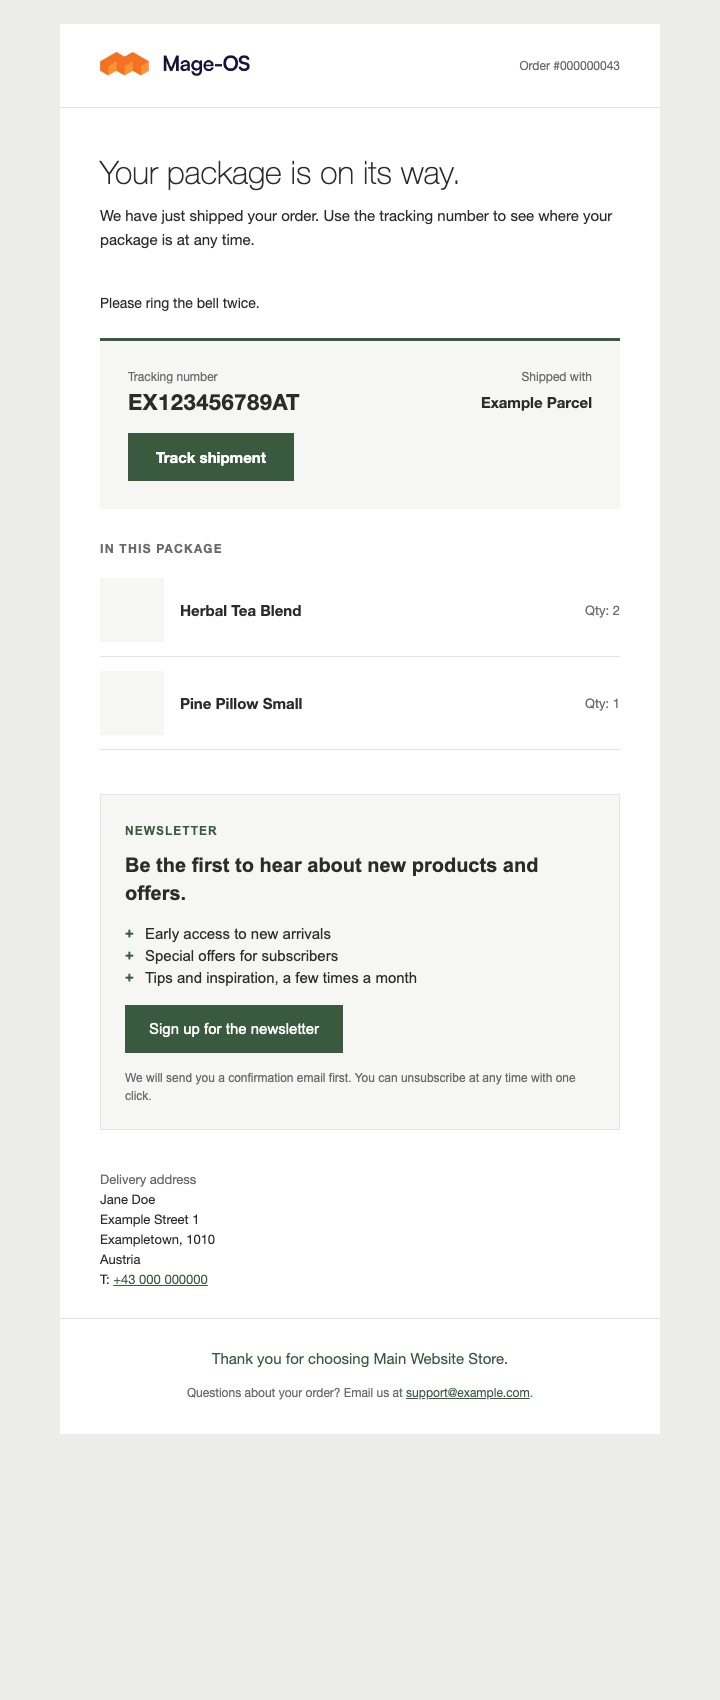
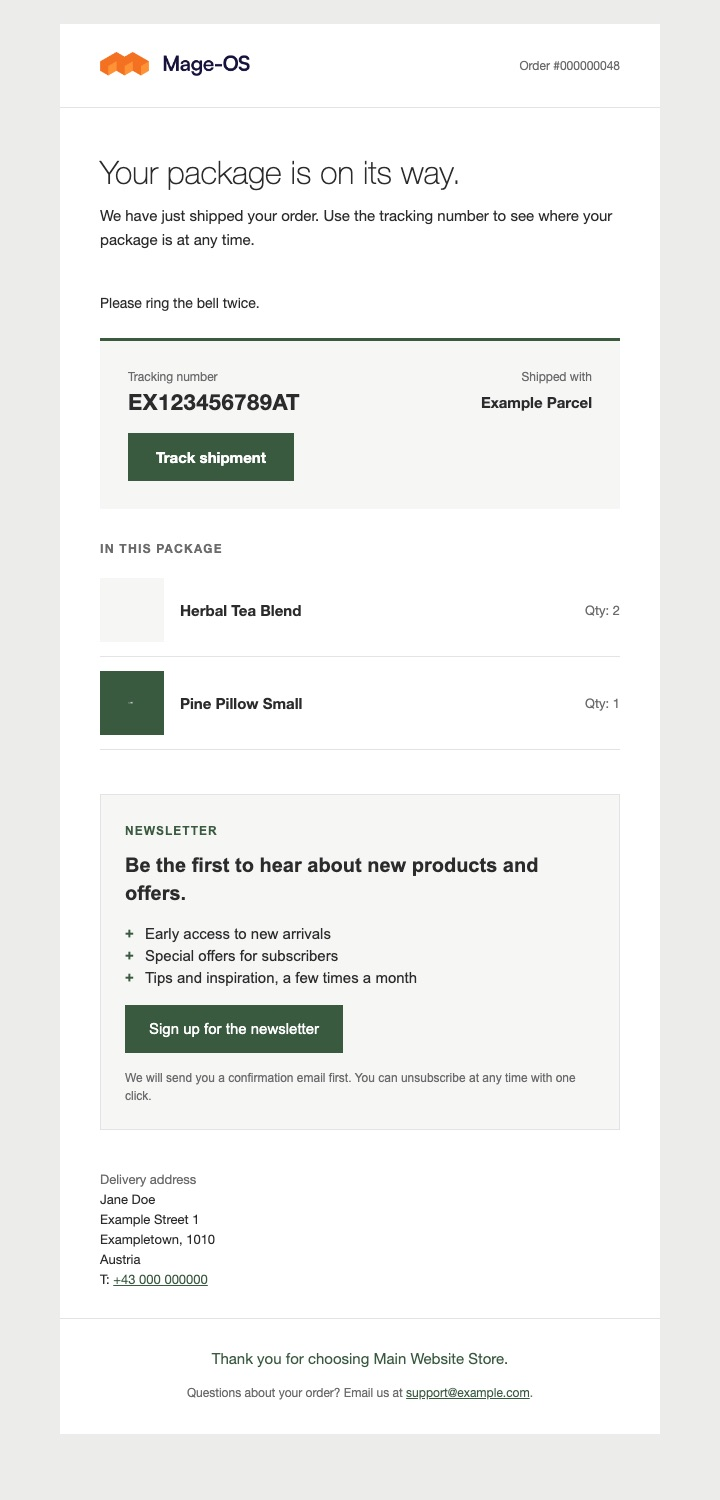
Update documentation and screenshots for the review fixes

diff --git a/README.md b/README.md
@@ -82,7 +82,9 @@ the module's templates, then select your copy in the Sales Emails configuration.
 All colours live in one stylesheet that is inlined into the emails: `PixelPerfect_SalesEmail::css/pp-sales-email.css`.
 Defaults: ink `#2b2b2b`, muted `#6b6b6b`, line `#e3e3e3`, tint `#f6f6f4`, accent `#3a5a40`. Ship the same file in your
 theme (`<theme>/PixelPerfect_SalesEmail/web/css/pp-sales-email.css`) or in a small shop module to change them. The
-default invitation block carries its own inline colours; edit the CMS block to match.
+templates repeat a few colours as `bgcolor` attributes (button cell, tracking box, item placeholder, page background
+`#ececea`) for clients that ignore CSS; override those in your template copies. The default invitation block carries
+its own inline colours and a `bgcolor` button cell; edit the CMS block to match.
 
 ## Invitation block
 
@@ -93,7 +95,7 @@ before it is rendered.
   are unwrapped (their children stay).
 - **Removed together with their content:** `script style link svg form input button iframe object embed meta base
   textarea select noscript template math`.
-- **Allowed attributes:** `href src alt width height style align valign border cellpadding cellspacing role title`.
+- **Allowed attributes:** `href src alt width height style align valign border cellpadding cellspacing role title bgcolor`.
   Every other attribute (for example `onclick`, `class`, `id`) is dropped.
 - **URL schemes** in `href` and `src`: `http`, `https`, `mailto`, `tel`, and relative URLs. Others such as
   `javascript:` or `data:` are dropped.
@@ -127,7 +129,8 @@ shipped by this module.
 
 The module ships `en_US` and `de_DE` (formal "Sie") for its own strings only. Strings that Magento core already
 owns (Subtotal, Grand Total, Shipping & Handling, Coupon, the order subject and so on) are not duplicated; they come
-from the language pack installed for the store.
+from the language pack installed for the store. The "Gift" label in the amount cell comes from the discount-lines
+module.
 
 ## Known limits
 
@@ -138,7 +141,9 @@ from the language pack installed for the store.
   strip it show the desktop layout.
 - Real product images have not been tested in the lab (placeholder cells only); image URLs are resolved through the
   store emulation of the order's store.
-- Without discount lines, the core discount row keeps the rule description in its label (core behaviour).
+- Without discount lines, the core discount row shows the discount label core builds (the rule label or the coupon code).
+- Blocks saved by an import or a direct resource-model save skip the admin warning; their content is still sanitised
+  at render.
 - Tracking links point to the core tracking popup, not to the carrier's own page.
 
 ## Screenshots
